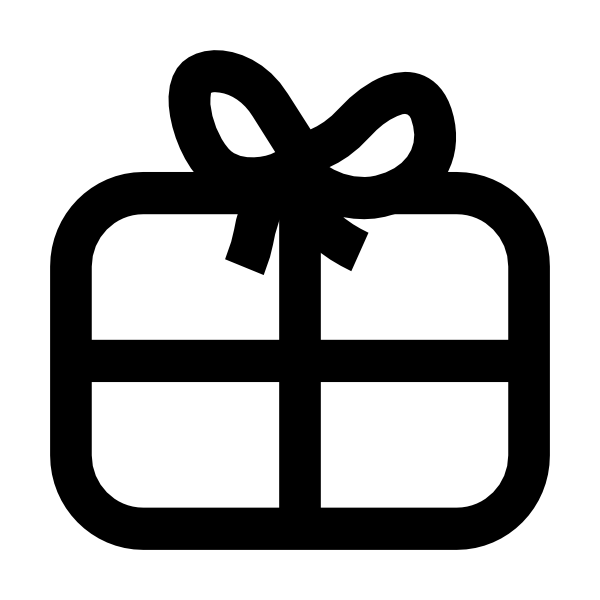
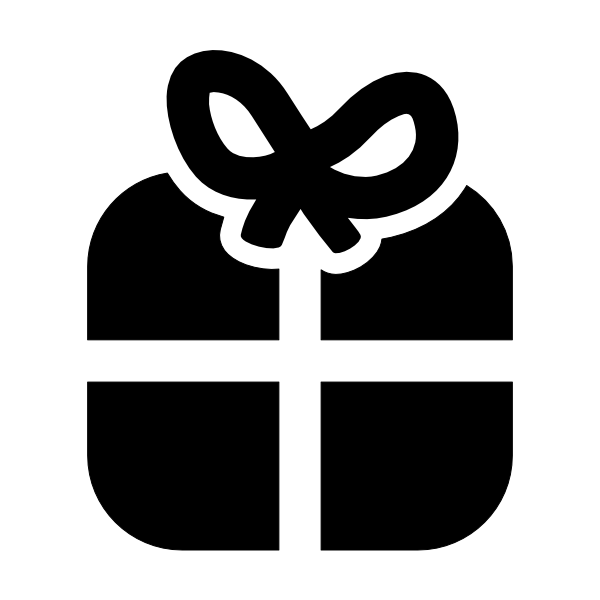
Nytt, fylt gaveikon
Claude-Session: https://claude.ai/code/session_019LUGHBiMUJnbi9rSPsjrym

diff --git a/flutter_bootstrap.js b/flutter_bootstrap.js
@@ -1,4 +1,4 @@
-(()=>{var T=()=>WebAssembly.validate(new Uint8Array([0,97,115,109,1,0,0,0,1,5,1,95,1,120,0]))&&WebAssembly.validate(new Uint8Array([0,97,115,109,1,0,0,0,1,5,1,96,0,1,123,3,2,1,0,10,10,1,8,0,65,0,253,15,253,98,11]))&&!WebAssembly.validate(new Uint8Array([0,97,115,109,1,0,0,0,1,4,1,96,0,0,2,23,1,14,119,97,115,109,58,106,115,45,115,116,114,105,110,103,4,99,97,115,116,0,0]),{builtins:["js-string"]})&&WebAssembly.validate(new Uint8Array([0,97,115,109,1,0,0,0,1,4,1,96,0,0,3,2,1,0,10,13,1,11,0,2,64,31,64,1,2,0,11,11,11]));var _={blink:!0,gecko:!1,webkit:!1,unknown:!1},F=()=>navigator.vendor==="Google Inc."||navigator.userAgent.includes("Edg/")?"blink":navigator.vendor==="Apple Computer, Inc."?"webkit":navigator.vendor===""&&navigator.userAgent.includes("Firefox")?"gecko":"unknown",C=F(),K=()=>typeof ImageDecoder>"u"?!1:C==="blink",B=()=>typeof Intl.v8BreakIterator<"u"&&typeof Intl.Segmenter<"u",D=()=>typeof window.TextCluster<"u",$=()=>{let n=navigator.userAgent.match(/firefox\/(\d+)/i);return n?parseInt(n[1],10):-1},O=()=>C==="gecko"&&$()<147?!1:window._flutter?.supportsDart2Wasm??T(),M=()=>{let n=document.createElement("canvas");return n.width=1,n.height=1,n.getContext("webgl2")!=null?2:n.getContext("webgl")!=null?1:-1},H=()=>window.chrome&&chrome.runtime&&chrome.runtime.id,g={browserEngine:C,hasImageCodecs:K(),hasChromiumBreakIterators:B(),hasTextCluster:D(),get supportsDart2Wasm(){return O()},crossOriginIsolated:window.crossOriginIsolated,webGLVersion:M(),isChromeExtension:H()};function w(...n){return new URL(E(...n),document.baseURI).toString()}function E(...n){return n.filter(e=>!!e).map((e,s)=>s===0?I(e):z(I(e))).filter(e=>e.length).join("/")}function z(n){let e=0;for(;e<n.length&&n.charAt(e)==="/";)e++;return n.substring(e)}function I(n){let e=n.length;for(;e>0&&n.charAt(e-1)==="/";)e--;return n.substring(0,e)}function U(n,e){return n.canvasKitBaseUrl?n.canvasKitBaseUrl:e.engineRevision&&!e.useLocalCanvasKit?E("https://www.gstatic.com/flutter-canvaskit",e.engineRevision):"canvaskit"}var y=class{constructor(){this._scriptLoaded=!1}setTrustedTypesPolicy(e){this._ttPolicy=e}async loadEntrypoint(e){let{entrypointUrl:s=w("main.dart.js?v=20261113104927"),onEntrypointLoaded:r,nonce:t}=e||{};return this._loadJSEntrypoint(s,r,t)}async load(e,s,r,t,i){i??=d=>{d.initializeEngine(r).then(u=>u.runApp())};let{entrypointBaseUrl:a}=r,{entryPointBaseUrl:l}=r;if(!a&&l&&(console.warn("[deprecated] `entryPointBaseUrl` is deprecated and will be removed in a future release. Use `entrypointBaseUrl` instead."),a=l),e.compileTarget==="dart2wasm")return this._loadWasmEntrypoint(e,s,a,i,r?.wasmDeferredModulesLoader);{let d=e.mainJsPath??"main.dart.js?v=20261113104927",u=w(a,d);return this._loadJSEntrypoint(u,i,t)}}didCreateEngineInitializer(e){typeof this._didCreateEngineInitializerResolve=="function"&&(this._didCreateEngineInitializerResolve(e),this._didCreateEngineInitializerResolve=null,delete _flutter.loader.didCreateEngineInitializer),typeof this._onEntrypointLoaded=="function"&&this._onEntrypointLoaded(e)}_loadJSEntrypoint(e,s,r){let t=typeof s=="function";if(!this._scriptLoaded){this._scriptLoaded=!0;let i=this._createScriptTag(e,r);if(t)console.debug("Injecting <script> tag. Using callback."),this._onEntrypointLoaded=s,document.head.append(i);else return new Promise((a,l)=>{console.debug("Injecting <script> tag. Using Promises. Use the callback approach instead!"),this._didCreateEngineInitializerResolve=a,i.addEventListener("error",l),document.head.append(i)})}}async _loadWasmEntrypoint(e,s,r,t,i){if(!this._scriptLoaded){this._scriptLoaded=!0,this._onEntrypointLoaded=t;let{mainWasmPath:a,jsSupportRuntimePath:l}=e,d=w(r,a),u=w(r,l);this._ttPolicy!=null&&(u=this._ttPolicy.createScriptURL(u));let p=(await import(u)).compileStreaming(fetch(d)),o;e.renderer==="skwasm"?o=(async()=>{let h=await s.skwasm;return window._flutter_skwasmInstance=h,{skwasm:h.wasmExports,skwasmWrapper:h,ffi:{memory:h.wasmMemory}}})():o=Promise.resolve({});let f=await p,v=(h,R)=>Promise.all(h.map(L=>fetch(w(r,L)).then(j=>R(L,j))));await(await f.instantiate(await o,{loadDeferredModules:i||v})).invokeMain()}}_createScriptTag(e,s){let r=document.createElement("script");r.type="application/javascript",s&&(r.nonce=s);let t=e;return this._ttPolicy!=null&&(t=this._ttPolicy.createScriptURL(e)),r.src=t,r}};async function P(n,e,s){if(e<0)return n;let r,t=new Promise((i,a)=>{r=setTimeout(()=>{a(new Error(`${s} took more than ${e}ms to resolve. Moving on.`,{cause:P}))},e)});return Promise.race([n,t]).finally(()=>{clearTimeout(r)})}var b=class{setTrustedTypesPolicy(e){this._ttPolicy=e}loadServiceWorker(e){if(!e||!("serviceWorker"in navigator))return Promise.resolve();let s=()=>{console.warn(`Loading the service worker using Flutter bootstrap is deprecated and will stop working in a future release.
+(()=>{var T=()=>WebAssembly.validate(new Uint8Array([0,97,115,109,1,0,0,0,1,5,1,95,1,120,0]))&&WebAssembly.validate(new Uint8Array([0,97,115,109,1,0,0,0,1,5,1,96,0,1,123,3,2,1,0,10,10,1,8,0,65,0,253,15,253,98,11]))&&!WebAssembly.validate(new Uint8Array([0,97,115,109,1,0,0,0,1,4,1,96,0,0,2,23,1,14,119,97,115,109,58,106,115,45,115,116,114,105,110,103,4,99,97,115,116,0,0]),{builtins:["js-string"]})&&WebAssembly.validate(new Uint8Array([0,97,115,109,1,0,0,0,1,4,1,96,0,0,3,2,1,0,10,13,1,11,0,2,64,31,64,1,2,0,11,11,11]));var _={blink:!0,gecko:!1,webkit:!1,unknown:!1},F=()=>navigator.vendor==="Google Inc."||navigator.userAgent.includes("Edg/")?"blink":navigator.vendor==="Apple Computer, Inc."?"webkit":navigator.vendor===""&&navigator.userAgent.includes("Firefox")?"gecko":"unknown",C=F(),K=()=>typeof ImageDecoder>"u"?!1:C==="blink",B=()=>typeof Intl.v8BreakIterator<"u"&&typeof Intl.Segmenter<"u",D=()=>typeof window.TextCluster<"u",$=()=>{let n=navigator.userAgent.match(/firefox\/(\d+)/i);return n?parseInt(n[1],10):-1},O=()=>C==="gecko"&&$()<147?!1:window._flutter?.supportsDart2Wasm??T(),M=()=>{let n=document.createElement("canvas");return n.width=1,n.height=1,n.getContext("webgl2")!=null?2:n.getContext("webgl")!=null?1:-1},H=()=>window.chrome&&chrome.runtime&&chrome.runtime.id,g={browserEngine:C,hasImageCodecs:K(),hasChromiumBreakIterators:B(),hasTextCluster:D(),get supportsDart2Wasm(){return O()},crossOriginIsolated:window.crossOriginIsolated,webGLVersion:M(),isChromeExtension:H()};function w(...n){return new URL(E(...n),document.baseURI).toString()}function E(...n){return n.filter(e=>!!e).map((e,s)=>s===0?I(e):z(I(e))).filter(e=>e.length).join("/")}function z(n){let e=0;for(;e<n.length&&n.charAt(e)==="/";)e++;return n.substring(e)}function I(n){let e=n.length;for(;e>0&&n.charAt(e-1)==="/";)e--;return n.substring(0,e)}function U(n,e){return n.canvasKitBaseUrl?n.canvasKitBaseUrl:e.engineRevision&&!e.useLocalCanvasKit?E("https://www.gstatic.com/flutter-canvaskit",e.engineRevision):"canvaskit"}var y=class{constructor(){this._scriptLoaded=!1}setTrustedTypesPolicy(e){this._ttPolicy=e}async loadEntrypoint(e){let{entrypointUrl:s=w("main.dart.js?v=20261113112837"),onEntrypointLoaded:r,nonce:t}=e||{};return this._loadJSEntrypoint(s,r,t)}async load(e,s,r,t,i){i??=d=>{d.initializeEngine(r).then(u=>u.runApp())};let{entrypointBaseUrl:a}=r,{entryPointBaseUrl:l}=r;if(!a&&l&&(console.warn("[deprecated] `entryPointBaseUrl` is deprecated and will be removed in a future release. Use `entrypointBaseUrl` instead."),a=l),e.compileTarget==="dart2wasm")return this._loadWasmEntrypoint(e,s,a,i,r?.wasmDeferredModulesLoader);{let d=e.mainJsPath??"main.dart.js?v=20261113112837",u=w(a,d);return this._loadJSEntrypoint(u,i,t)}}didCreateEngineInitializer(e){typeof this._didCreateEngineInitializerResolve=="function"&&(this._didCreateEngineInitializerResolve(e),this._didCreateEngineInitializerResolve=null,delete _flutter.loader.didCreateEngineInitializer),typeof this._onEntrypointLoaded=="function"&&this._onEntrypointLoaded(e)}_loadJSEntrypoint(e,s,r){let t=typeof s=="function";if(!this._scriptLoaded){this._scriptLoaded=!0;let i=this._createScriptTag(e,r);if(t)console.debug("Injecting <script> tag. Using callback."),this._onEntrypointLoaded=s,document.head.append(i);else return new Promise((a,l)=>{console.debug("Injecting <script> tag. Using Promises. Use the callback approach instead!"),this._didCreateEngineInitializerResolve=a,i.addEventListener("error",l),document.head.append(i)})}}async _loadWasmEntrypoint(e,s,r,t,i){if(!this._scriptLoaded){this._scriptLoaded=!0,this._onEntrypointLoaded=t;let{mainWasmPath:a,jsSupportRuntimePath:l}=e,d=w(r,a),u=w(r,l);this._ttPolicy!=null&&(u=this._ttPolicy.createScriptURL(u));let p=(await import(u)).compileStreaming(fetch(d)),o;e.renderer==="skwasm"?o=(async()=>{let h=await s.skwasm;return window._flutter_skwasmInstance=h,{skwasm:h.wasmExports,skwasmWrapper:h,ffi:{memory:h.wasmMemory}}})():o=Promise.resolve({});let f=await p,v=(h,R)=>Promise.all(h.map(L=>fetch(w(r,L)).then(j=>R(L,j))));await(await f.instantiate(await o,{loadDeferredModules:i||v})).invokeMain()}}_createScriptTag(e,s){let r=document.createElement("script");r.type="application/javascript",s&&(r.nonce=s);let t=e;return this._ttPolicy!=null&&(t=this._ttPolicy.createScriptURL(e)),r.src=t,r}};async function P(n,e,s){if(e<0)return n;let r,t=new Promise((i,a)=>{r=setTimeout(()=>{a(new Error(`${s} took more than ${e}ms to resolve. Moving on.`,{cause:P}))},e)});return Promise.race([n,t]).finally(()=>{clearTimeout(r)})}var b=class{setTrustedTypesPolicy(e){this._ttPolicy=e}loadServiceWorker(e){if(!e||!("serviceWorker"in navigator))return Promise.resolve();let s=()=>{console.warn(`Loading the service worker using Flutter bootstrap is deprecated and will stop working in a future release.
 For more details, see: https://github.com/flutter/flutter/issues/156910`)},r=()=>{let{serviceWorkerVersion:t,serviceWorkerUrl:i=w(`flutter_service_worker.js?v=${t}`),timeoutMillis:a=4e3}=e,l=i;this._ttPolicy!=null&&(l=this._ttPolicy.createScriptURL(l));let d=navigator.serviceWorker.register(l).then(u=>this._getNewServiceWorker(u,t)).then(this._waitForServiceWorkerActivation);return P(d,a,"prepareServiceWorker")};return e.serviceWorkerUrl!=null?(s(),r()):navigator.serviceWorker.getRegistration().then(t=>t?r():Promise.resolve())}async _getNewServiceWorker(e,s){if(!e.active&&(e.installing||e.waiting))return console.debug("Installing/Activating first service worker."),e.installing||e.waiting;if(e.active.scriptURL.endsWith(s))return console.debug("Loading from existing service worker."),e.active;{let r=await e.update();return console.debug("Updating service worker."),r.installing||r.waiting||r.active}}async _waitForServiceWorkerActivation(e){if(!e||e.state==="activated")if(e){console.debug("Service worker already active.");return}else throw new Error("Cannot activate a null service worker!");return new Promise((s,r)=>{e.addEventListener("statechange",()=>{e.state==="activated"&&(console.debug("Activated new service worker."),s())})})}};var k=class{constructor(e,s="flutter-js"){let r=e||[/\.js$/,/\.mjs$/];window.trustedTypes&&(this.policy=trustedTypes.createPolicy(s,{createScriptURL:function(t){if(t.startsWith("blob:"))return t;let i=new URL(t,window.location),a=i.pathname.split("/").pop();if(r.some(d=>d.test(a)))return i.toString();console.error("URL rejected by TrustedTypes policy",s,":",t,"(download prevented)")}}))}};var S=(n,e)=>{let s=window._flutter?.buildConfig?.wasmHashes,r=s?.[e];if(!r&&e?.includes("/")){let c=e.split("/").pop();r=s?.[c]}let t=!!navigator.crossOriginStorage?.getFileHandle;t&&console.log("Cross-Origin Storage is supported. See https://wicg.github.io/cross-origin-storage/ for more details.");let i={headers:{"Content-Type":"application/wasm"}},a=async c=>{let p={algorithm:"SHA-256",value:c};try{let f=await(await navigator.crossOriginStorage.getFileHandle(p)).getFile();return new Response(f.stream(),i)}catch(o){o&&o.name!=="NotFoundError"&&o.name!=="NotAllowedError"&&console.warn("Unexpected error during retrieval of "+e+" (hash: "+c+").",o)}},l=(c,p)=>{let o={algorithm:"SHA-256",value:c};(async()=>{try{let v=await(await navigator.crossOriginStorage.getFileHandle(o,{create:!0,origins:"*"})).createWritable();await p.pipeTo(v)}catch(f){p.cancel().catch(()=>{}),console.warn(`Error storing ${e} (hash: ${c}):`,f)}})()},d=async()=>{if(t&&r){let p=await a(r);if(p)return p}let c=await fetch(n);if(t&&r&&c.ok&&c.body){let[p,o]=c.body.tee();return l(r,o),new Response(p,i)}return c},u=WebAssembly.compileStreaming(d());return(c,p)=>((async()=>{let o=await u,f=await WebAssembly.instantiate(o,c);p(f,o)})(),{})};var A=(n,e,s,r)=>(window.flutterCanvasKitLoaded=(async()=>{if(window.flutterCanvasKit)return window.flutterCanvasKit;let t=s.hasChromiumBreakIterators&&s.hasImageCodecs;if(!t&&e.canvasKitVariant=="chromium")throw"Chromium CanvasKit variant specifically requested, but unsupported in this browser";let i=t&&e.canvasKitVariant!=="full",a=i&&e.preferWebParagraph&&s.hasTextCluster,l=r;a?l=w(l,"webparagraph"):i&&(l=w(l,"chromium"));let d=w(l,"canvaskit.js");n.flutterTT.policy&&(d=n.flutterTT.policy.createScriptURL(d));let u="canvaskit.wasm";a?u="webparagraph/canvaskit.wasm":i&&(u="chromium/canvaskit.wasm");let c=S(w(l,"canvaskit.wasm"),u),p=await import(d);return window.flutterCanvasKit=await p.default({instantiateWasm:c}),window.flutterCanvasKit})(),window.flutterCanvasKitLoaded);var x=async(n,e,s,r)=>{let t=!s.hasImageCodecs||!s.hasChromiumBreakIterators;t&&e.enableWimp&&console.error("Flutter Web: wimp_heavy is required but it hasn't been implemented yet.");let i=t?"skwasm_heavy":e.enableWimp?"wimp":"skwasm",a=w(r,`${i}.js`),l=a;n.flutterTT.policy&&(l=n.flutterTT.policy.createScriptURL(l));let d=S(w(r,`${i}.wasm`),`${i}.wasm`),u=await import(l);return!s.crossOriginIsolated&&!e.forceSingleThreadedSkwasm&&!e.suppressMultithreadingWarning&&console.warn(`Flutter Web: Skwasm uses multi-threading and web workers for better performance, but your page needs to be cross-origin isolated to support multi-threading. Skwasm will run in single-threaded mode.
 To enable multithreading, serve your app with these HTTP response headers:
   Cross-Origin-Opener-Policy: same-origin
@@ -38,6 +38,6 @@ addEventListener("message", eventListener);
 if (!window._flutter) {
   window._flutter = {};
 }
[2 lines of base64/hex data omitted]
 
 _flutter.loader.load();

diff --git a/index.html b/index.html
@@ -207,6 +207,6 @@
     For more details:
     * https://docs.flutter.dev/platform-integration/web/initialization
   -->
-  <script src="flutter_bootstrap.js?v=20261113104927" async></script>
+  <script src="flutter_bootstrap.js?v=20261113112837" async></script>
 </body>
 </html>
